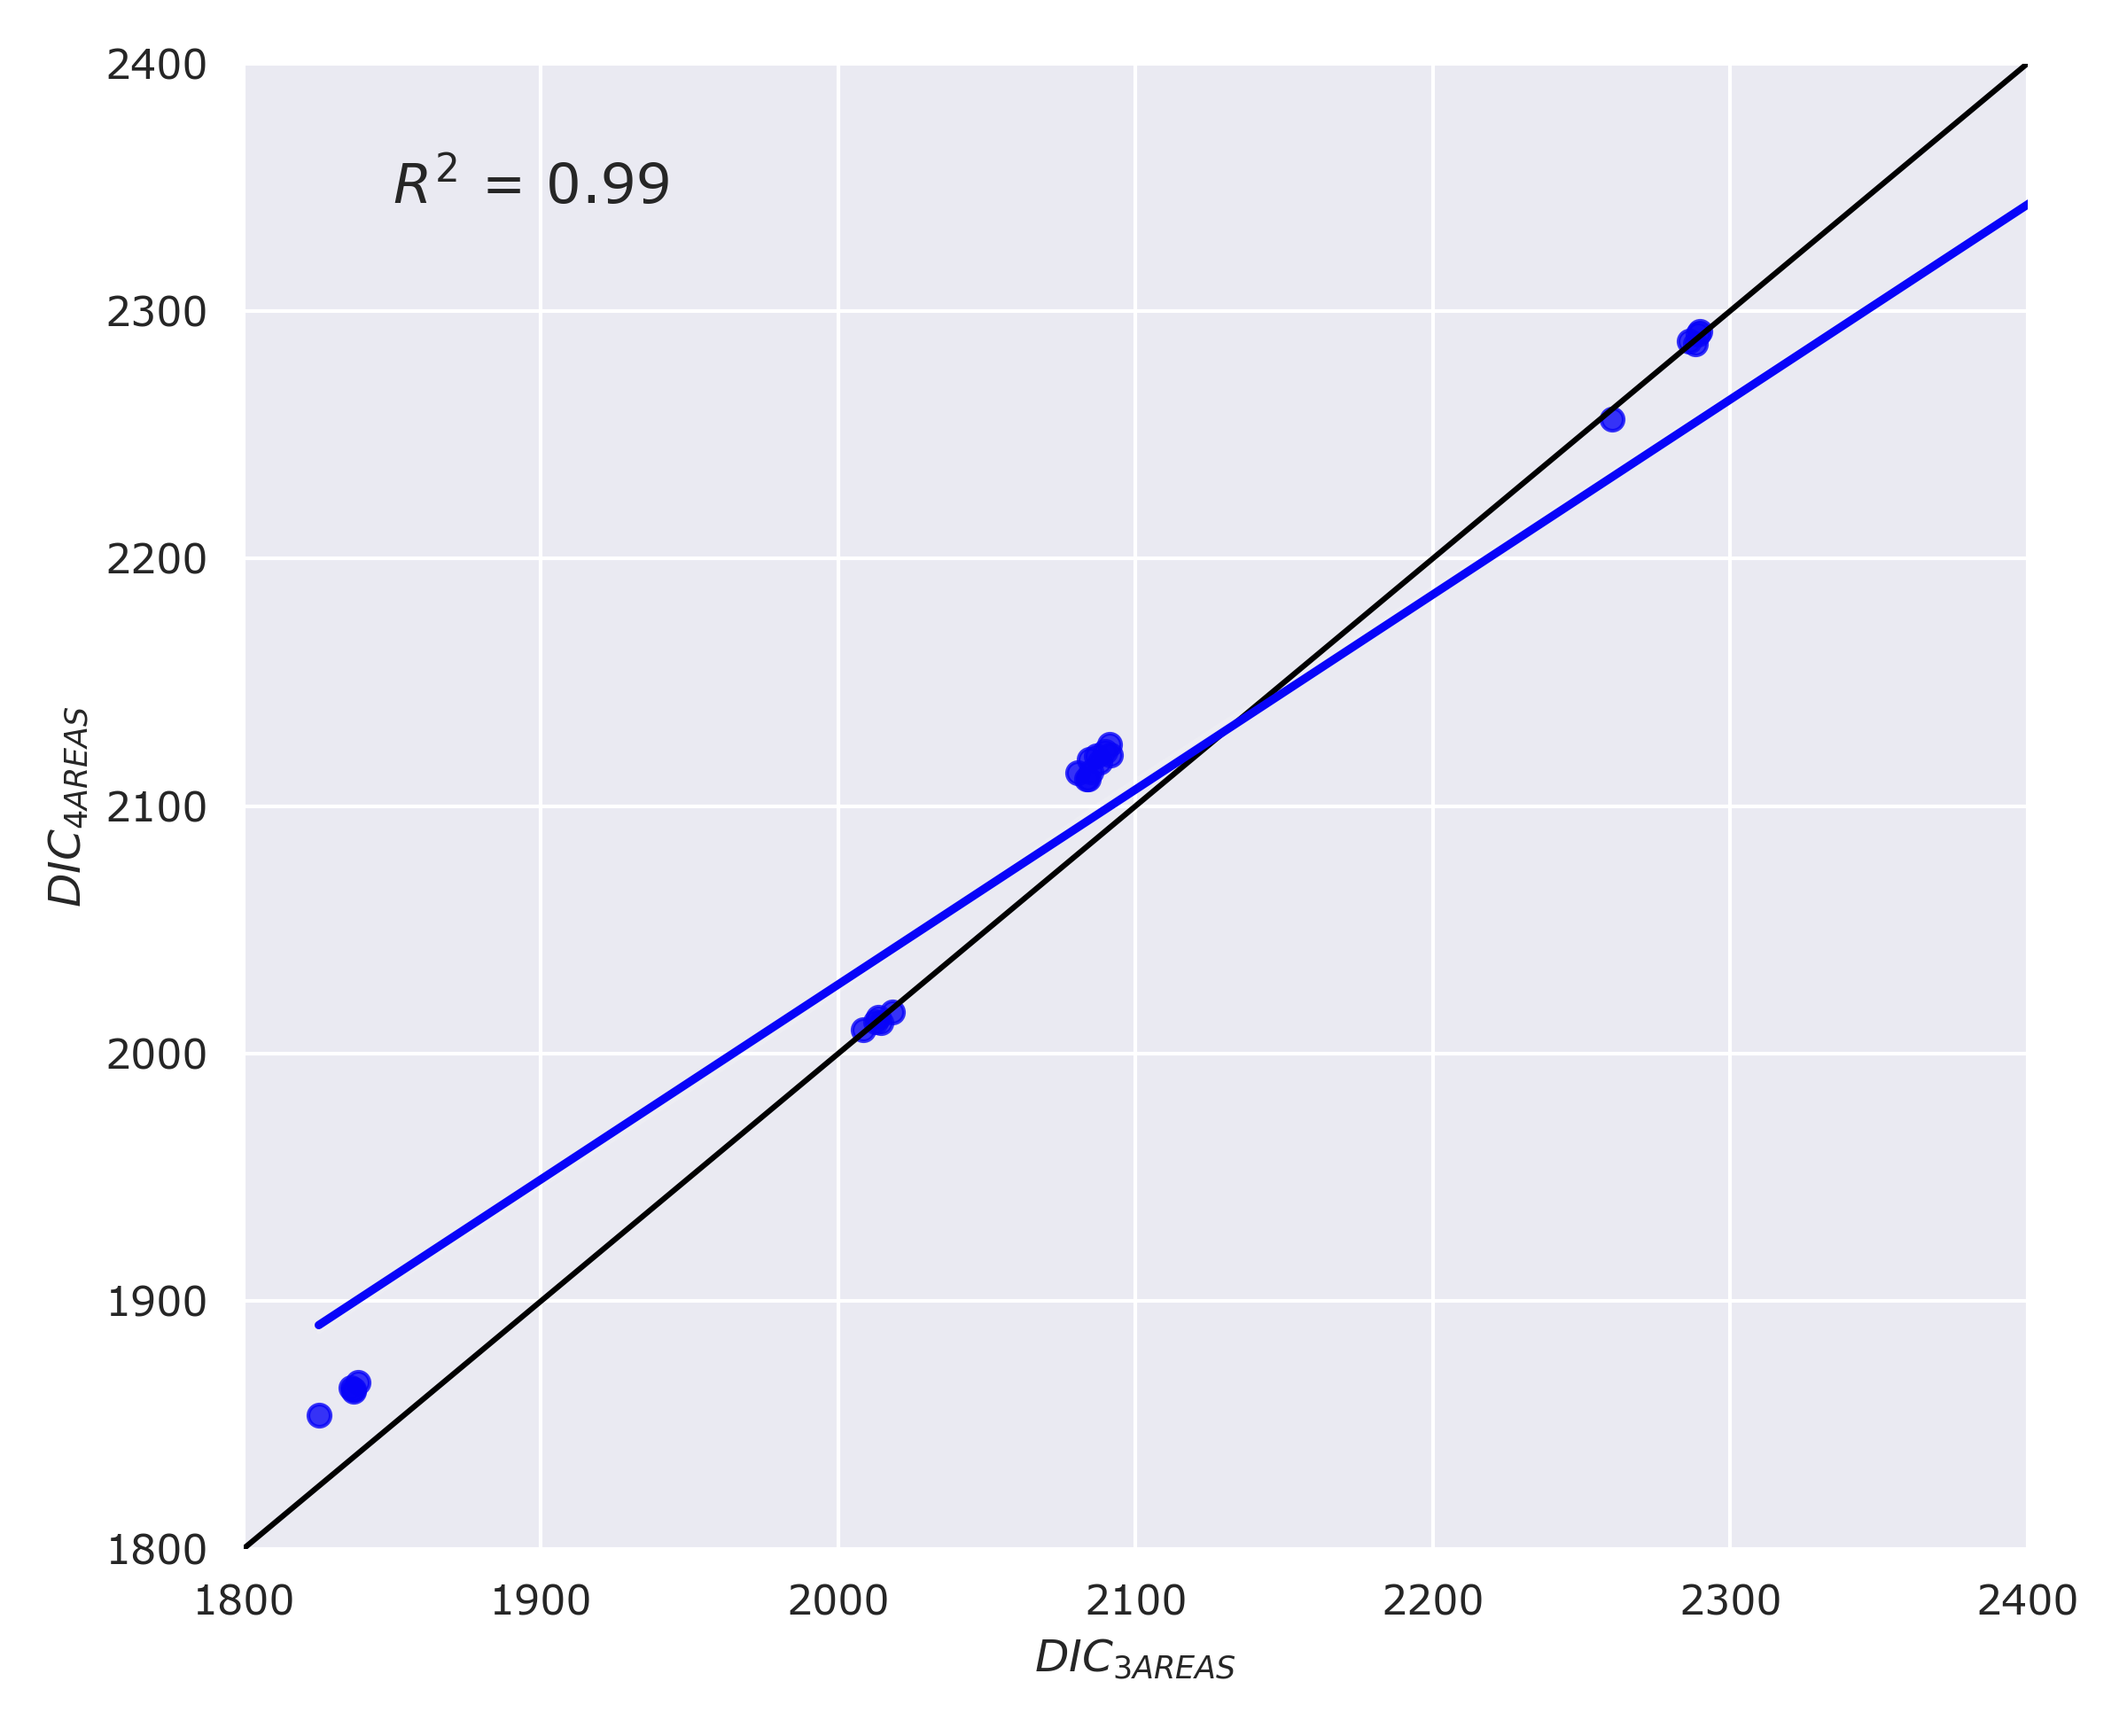
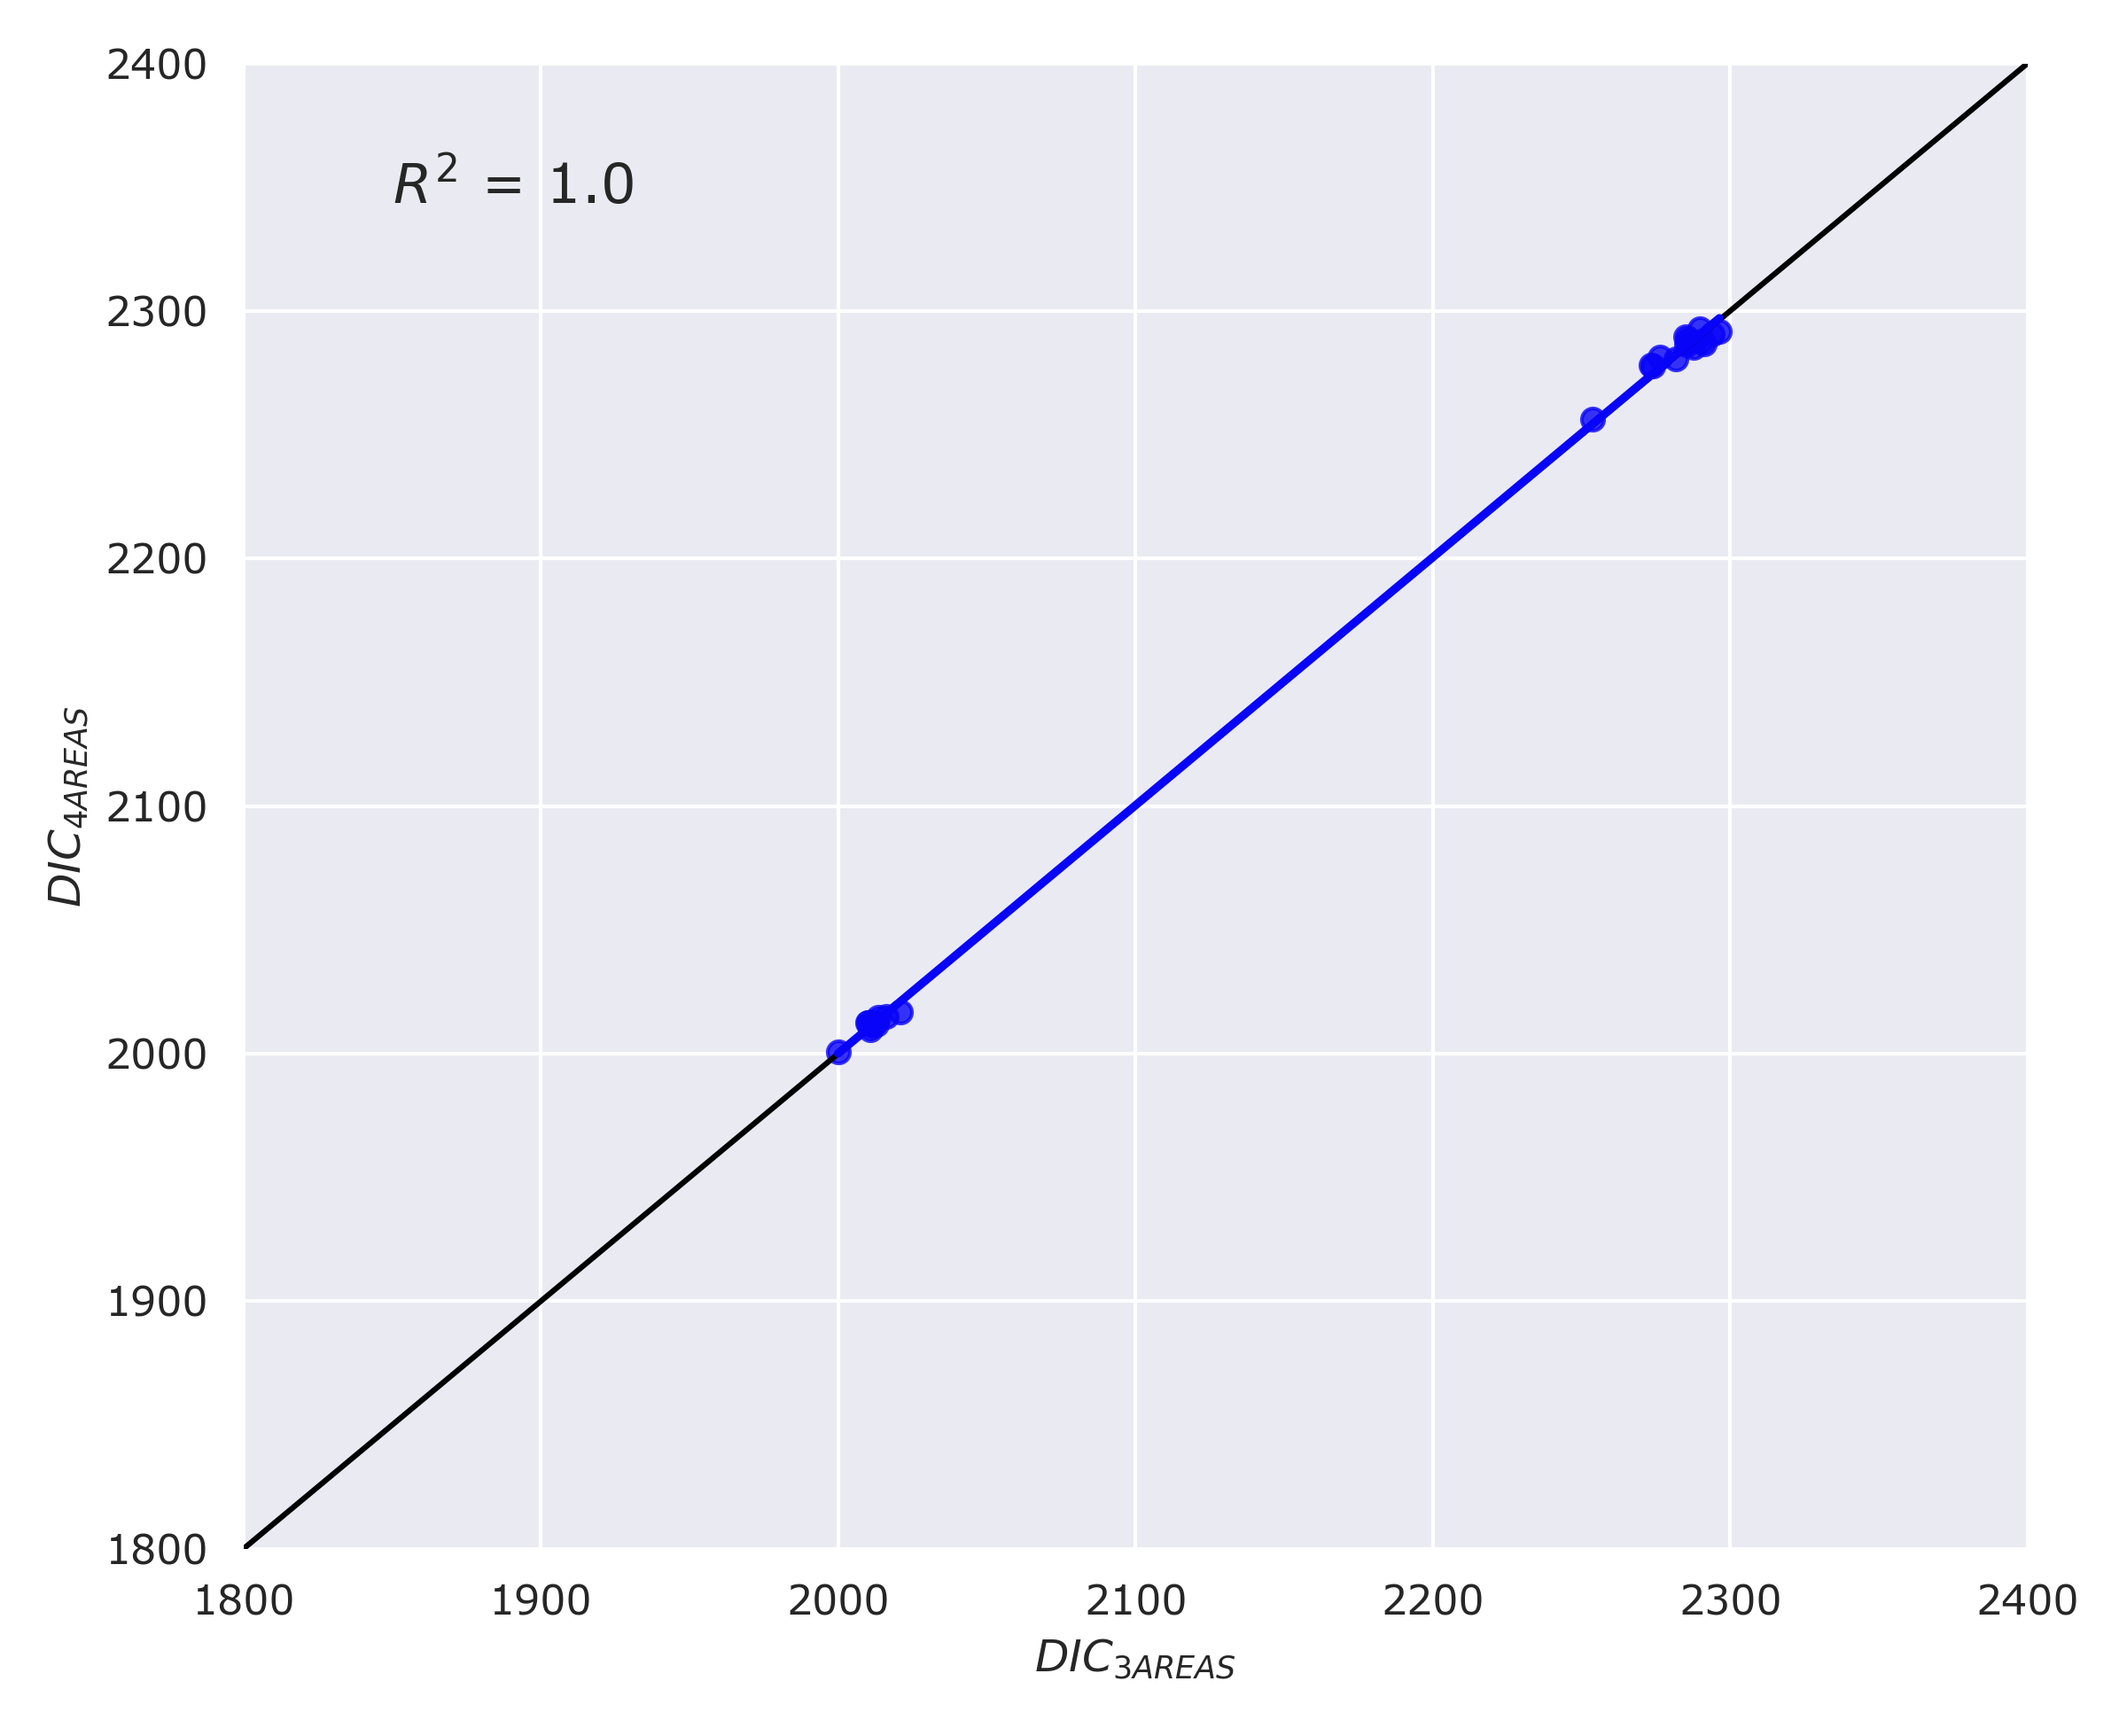
created separate files for B1
To deal with CRM8

diff --git a/airica/B1_fx_airica.py b/airica/B1_fx_airica.py
@@ -1,0 +1,113 @@
+# import toolbox
+import pandas as pd
+import numpy as np
+from matplotlib import dates as mdates
+
+def process_airica(crm_val, xlsx_filepath, dbs_filepath,
+                   results_file_path_and_name):
+    # import ".xlsx" file
+    db = pd.read_excel(xlsx_filepath, skiprows=[1])
+    L = (db.flag == 2)
+    db = db[L]
+    db = db.reset_index()
+    
+    # extract data from dbs
+    mapper_dbs = {
+    "run type": "run_type",
+    "i.s. temp.": "temperature_insitu",
+    "sample mass": "mass_sample",
+    "rep#": "rep",
+    "CT": "dic",
+    "factor CT": "dic_factor",
+    "CV (µmol)": "cv_micromol",
+    "CV (%)": "cv_percent",
+    "last CRM CT": "lastcrm_dic_measured",
+    "cert. CRM CT": "lastcrm_dic_certified",
+    "CRM batch": "lastcrm_batch",
+    "calc. mode": "mode_calculation",
+    "integ. mode": "mode_integration",
+    "Lat.": "latitude",
+    "Long.": "longitude",
+    "area#1": "area_1",
+    "area#2": "area_2",
+    "area#3": "area_3",
+    "area#4": "area_4",
+}
+
+    def read_dbs(filepath_or_buffer, encoding="unicode_escape", na_values="none", **kwargs):
+        """Import the dbs file generated by a Marianda AIRICA as a pandas DataFrame.
+        All kwargs are passed to pandas.read_table.
+        """
+        dbs = pd.read_table(
+            filepath_or_buffer, encoding=encoding, na_values=na_values, **kwargs
+        )
+        dbs.rename(mapper=mapper_dbs, axis=1, inplace=True)
+        dbs.drop(columns="Unnamed: 32", inplace=True)
+        dbs["datetime"] = pd.to_datetime(
+            dbs.apply(lambda x: " ".join((x.date, x.time)), axis=1)
+        )
+        dbs["datenum"] = mdates.date2num(dbs.datetime)
+        return dbs
+
+    # import ".dbs" file
+    data = read_dbs(dbs_filepath)
+    
+    # add ".dbs" data to ".xlsx"
+    sample_list = db["name"].tolist()
+    
+    db.loc[db["name"]==sample_list, "temperature"] = data.temperature
+    db.loc[db["name"]==sample_list, "salinity"] = data.salinity
+    db.loc[db["name"]==sample_list, "density"] = data.density
+    db.loc[db["name"]==sample_list, "mass_sample"] = data.mass_sample
+    db.loc[db["name"]==sample_list, "time"] = data.time
+    db.loc[db["name"]==sample_list, "area_1"] = data.area_1
+    db.loc[db["name"]==sample_list, "area_2"] = data.area_2
+    db.loc[db["name"]==sample_list, "area_3"] = data.area_3
+    db.loc[db["name"]==sample_list, "area_4"] = data.area_4
+    db.loc[db["name"]==sample_list, "bottle"] = data.bottle
+    
+    # check that ".dbs" bottle = ".xlsx" name and drop "bottle" column
+    if db["name"].equals(db["bottle"]):
+        print("SUCCESSFUL DBS IMPORT")
+        db = db.drop(columns=["bottle"])
+    else:
+        KeyError
+        print("ERROR: mismatch between dbs and xlsx files")
+    
+    # average areas with all areas and only last 3 areas
+    L = (db.name == "CRM8")
+    db = db[~L]
+    db["area_av_4"] = (db.area_1+db.area_2+db.area_3+db.area_4)/4
+    db["area_av_3"] = (db.area_2+db.area_3+db.area_4)/3
+    
+    # create columns to hold conversion factor (CF) values
+    db["CF_3"] = np.nan
+    db["CF_4"] = np.nan
+    
+    # calc CRM coeff factor
+    def get_CF(db):
+        """ Calculate conversion factor CF for each analysis batch."""
+        db.CF_3 = (crm_val*db.density*db.sample_v)/db.area_av_3
+        db.CF_4 = (crm_val*db.density*db.sample_v)/db.area_av_4
+        CF_3f = db.loc[db["location"] == "CRM", "CF_3"].mean()
+        CF_4f = db.loc[db["location"] == "CRM", "CF_4"].mean()
+        return pd.Series({
+        "CF_3f": CF_3f,
+        "CF_4f": CF_4f,
+        })
+    
+    db_cf = db.groupby(by=["analysis_batch"]).apply(get_CF)
+    
+    # assign a CRM CF to samples based on analysis batch
+    db["CF_3"] = db_cf.loc[db.analysis_batch.values, 'CF_3f'].values
+    db["CF_4"] = db_cf.loc[db.analysis_batch.values, 'CF_4f'].values
+    
+    # calculate TCO2 values
+    db["TCO2_3"] = np.nan
+    db["TCO2_4"] = np.nan
+    
+    db["TCO2_3"] = (db.CF_3*db.area_av_3)/(db.density*db.sample_v)
+    db["TCO2_4"] = (db.CF_4*db.area_av_4)/(db.density*db.sample_v)
+    
+    # save results as text file
+    db.to_csv(results_file_path_and_name, index=None)

diff --git a/airica/B1_airica_graphs.py b/airica/B1_airica_graphs.py
@@ -7,7 +7,7 @@ import matplotlib
 from scipy import stats
 
 # import data
-exec(open("fx_airica.py").read())
+exec(open("B1_fx_airica.py").read())
 process_airica(2012.59, './data/Aug_20_Wadden_sea_B1_AIRICA.xlsx',
               './data/LD_B1.dbs', './results_rws.csv')
 db = pd.read_csv('./results_rws.csv',
